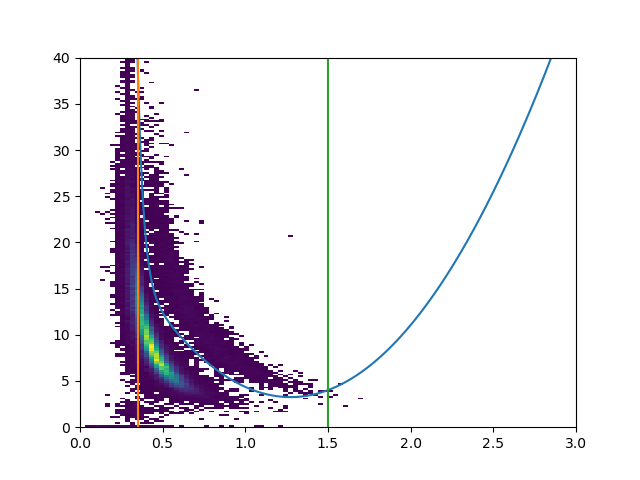
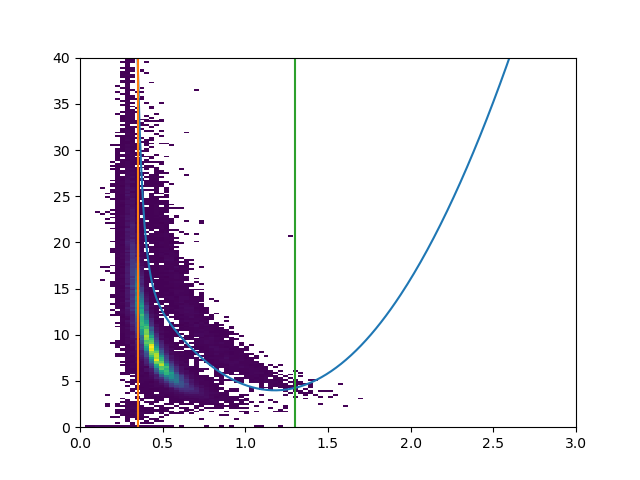
More stringent point selection for the deuteon dE/dx cut

diff --git a/plot/phi_d/d_dE_dx/fit.py b/plot/phi_d/d_dE_dx/fit.py
@@ -190,7 +190,7 @@ p_points = np.arange(0.25, 3, 0.01)
 dE_points = exponential(p_points, *popt)
 plt.plot(p_points, dE_points, label="dE/dx = exp(-4.5*p + 5) + 2")
 plt.plot(np.ones(400)*0.35, np.linspace(0, 40, 400))
-plt.plot(np.ones(400)*1.50, np.linspace(0, 40, 400))
+plt.plot(np.ones(400)*1.30, np.linspace(0, 40, 400))
 # plt.plot(points[:,0], points[:,1], 'r.', label="Data points")
 plt.ylim(0,40)
 
